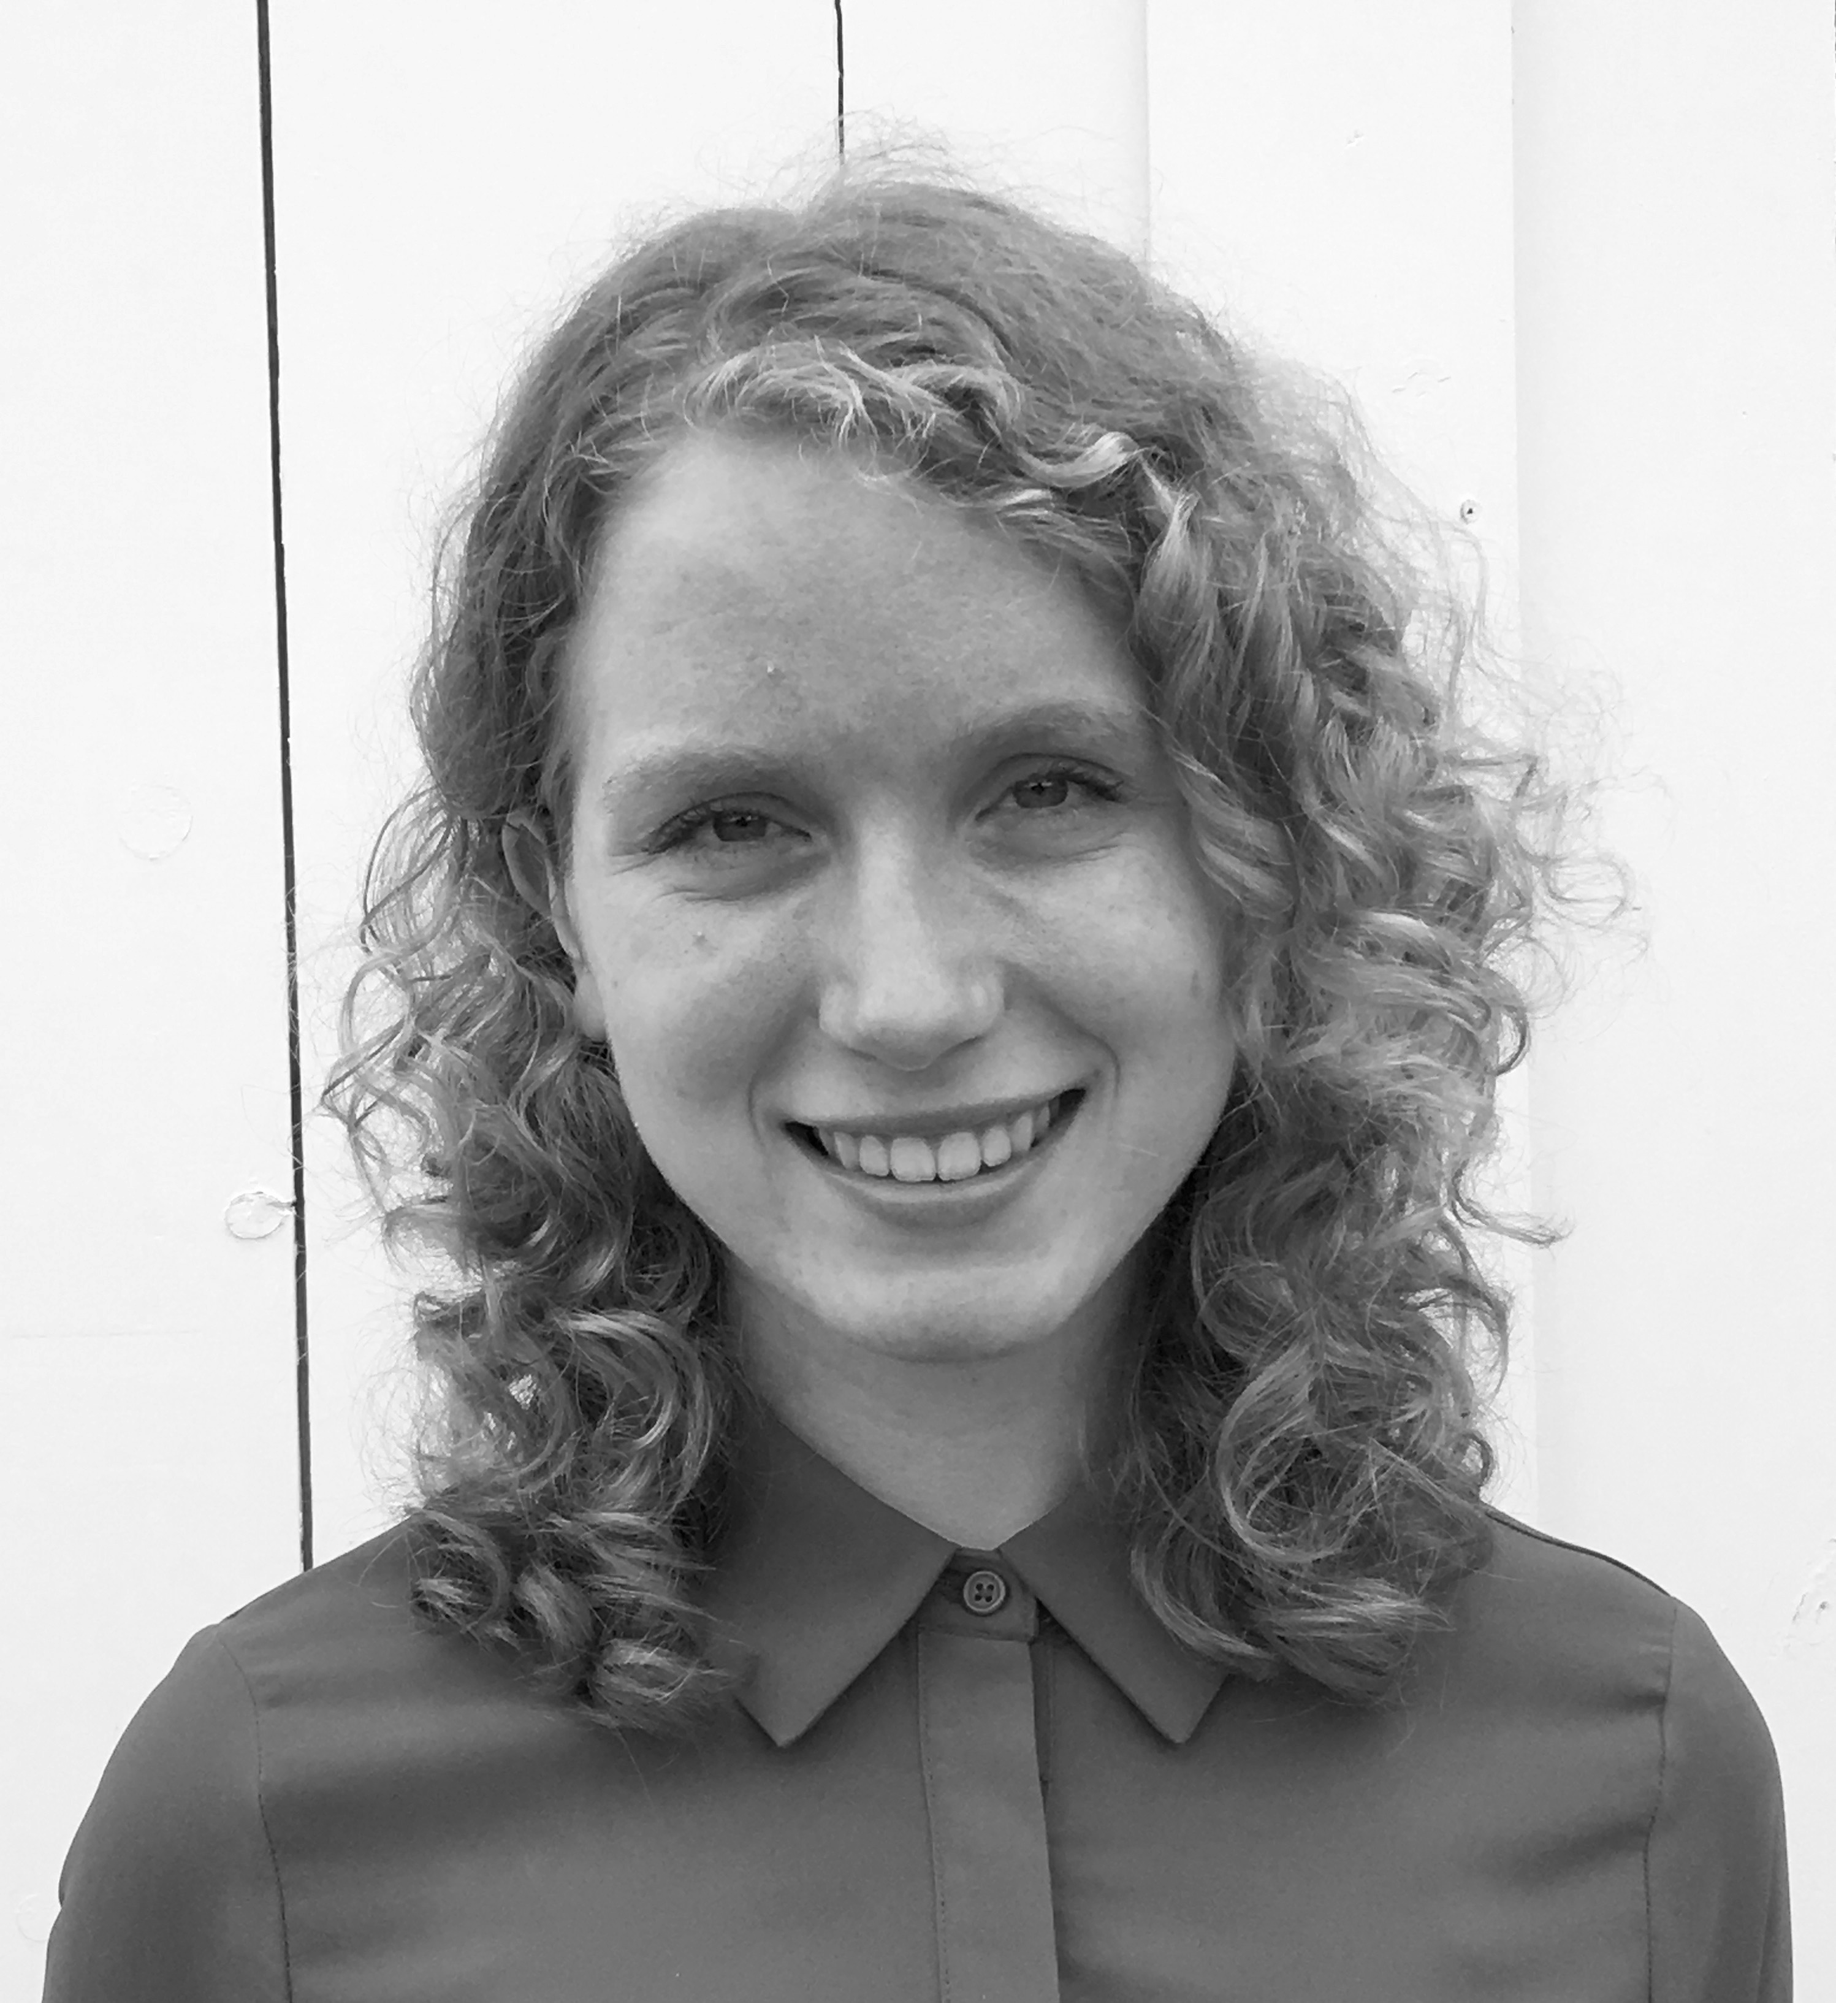
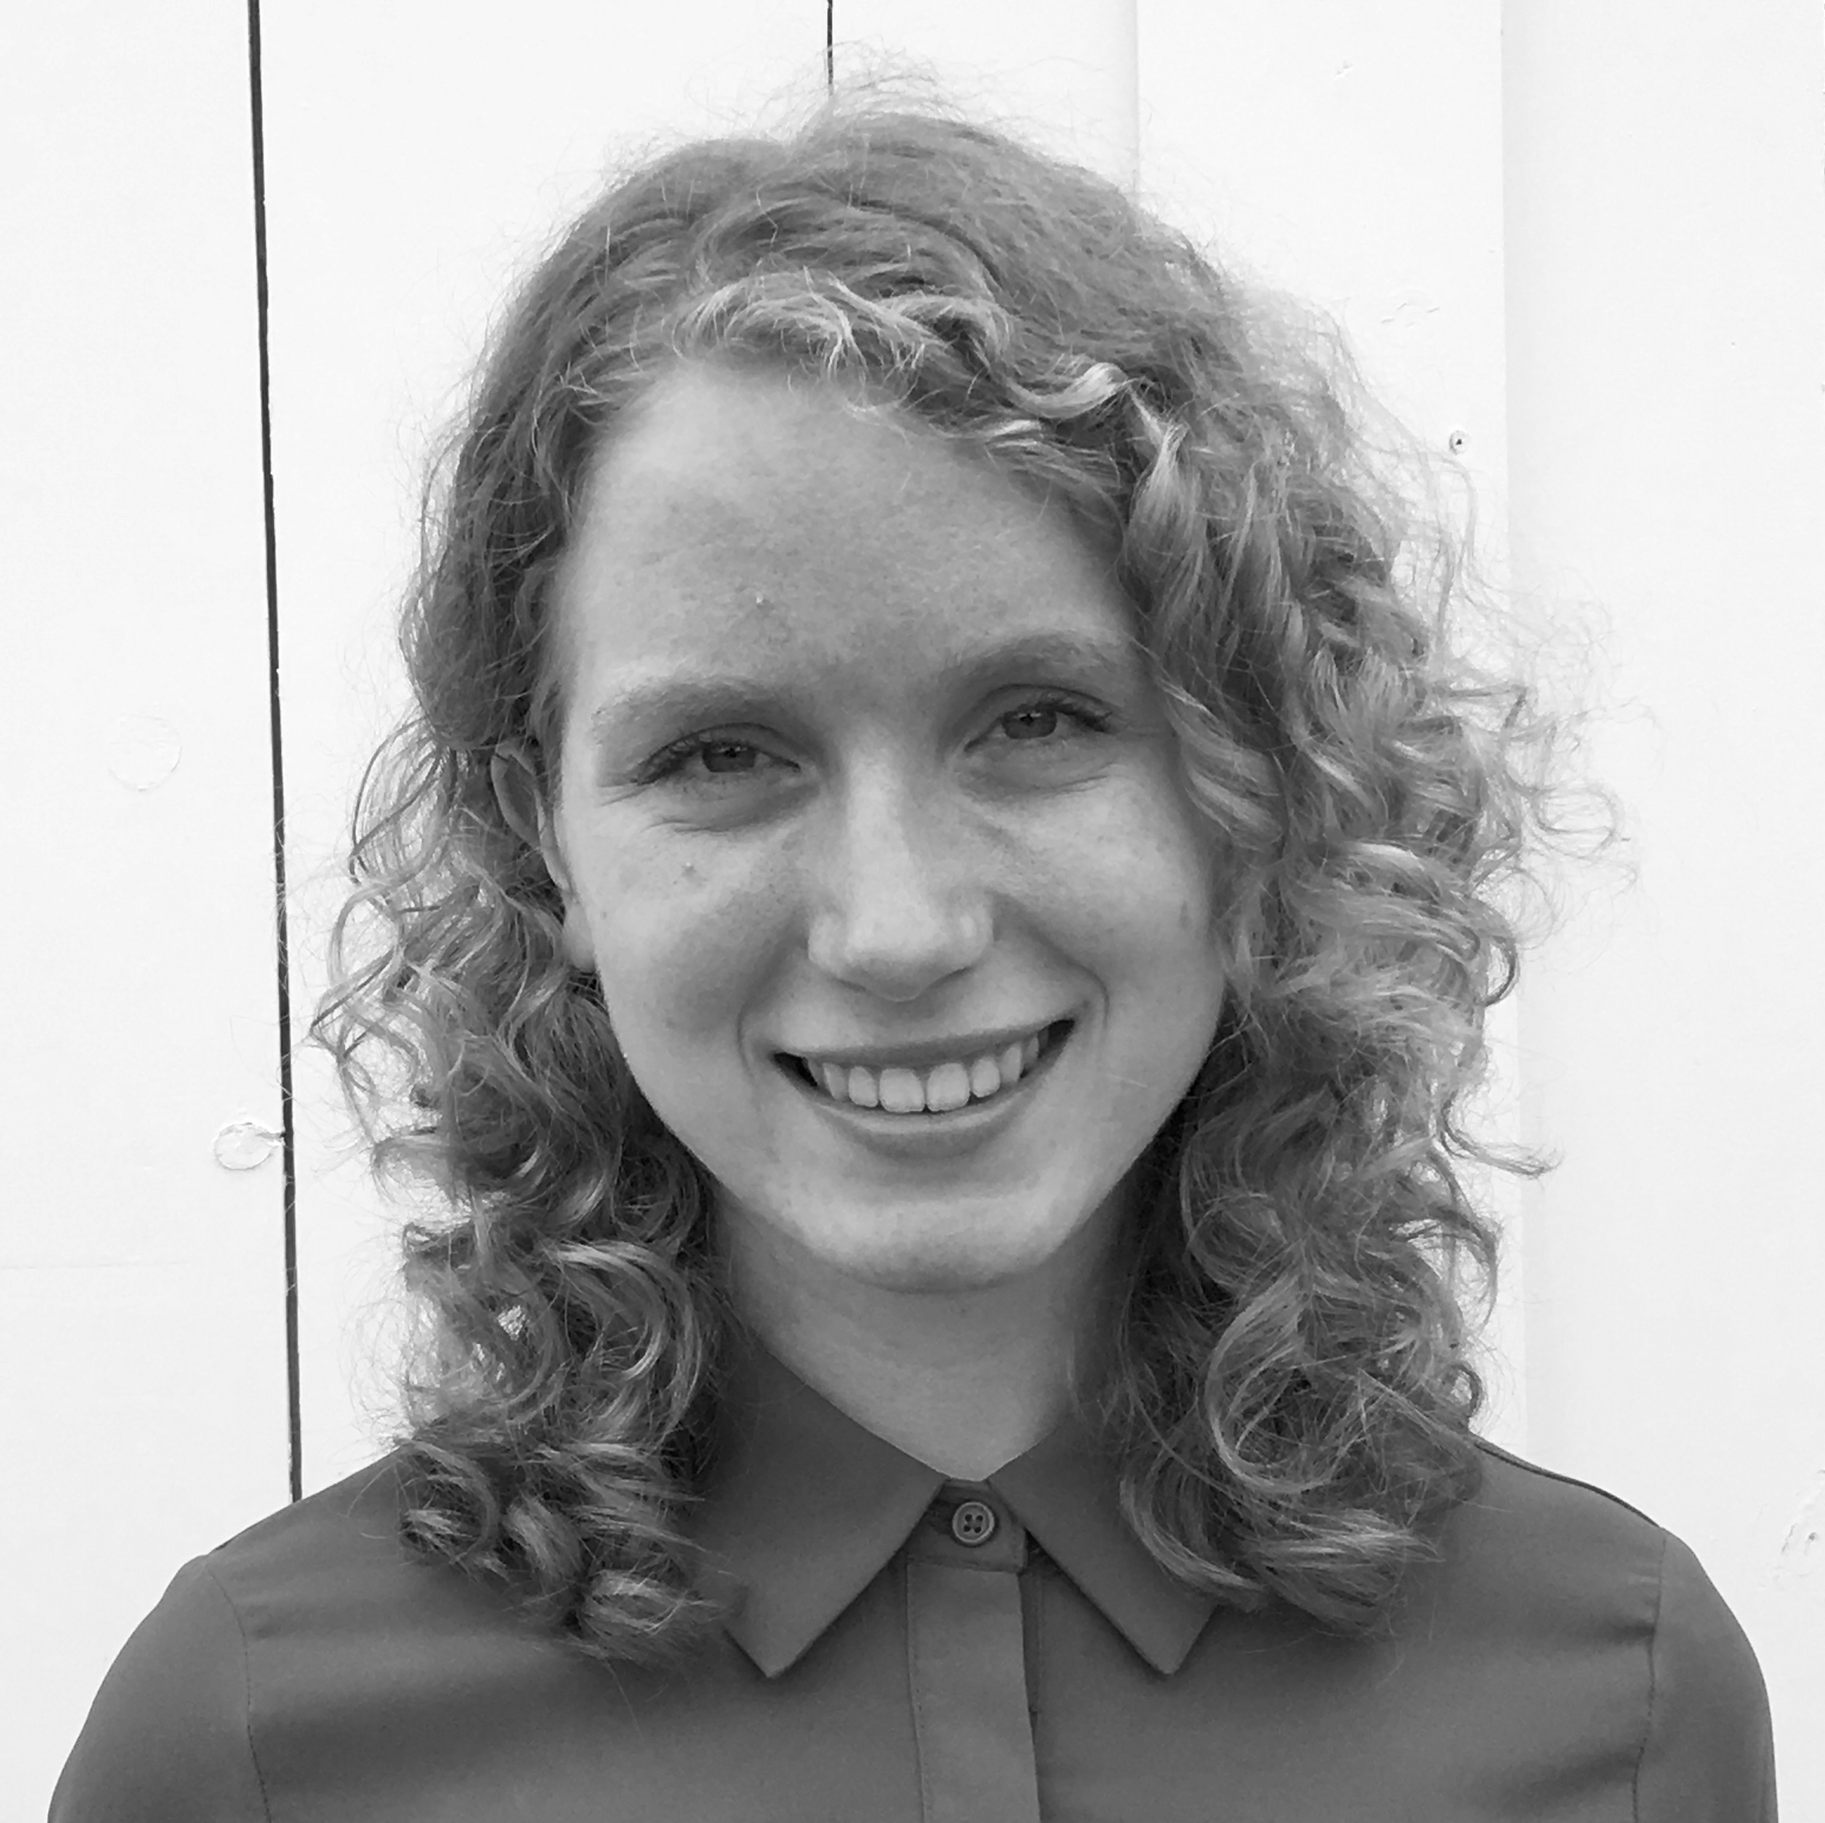
resizing photos...

Changed region(s): [[0.0, 0.0, 0.9997, 1.0], [0.9997, 0.0, 1.0, 0.0619], [0.9997, 0.0928, 1.0, 0.1238]]

diff --git a/assets/css/main.css b/assets/css/main.css
@@ -2564,6 +2564,17 @@
     height: 300px;
 }
 
+
+.imgContainer {
+  overflow: hidden;
+  width: 375px;
+  height: 375px;
+}
+.imgContainer img {
+  width: 375px;
+  height: 375px;
+}
+
 .ccontainer {
     position: relative;
     text-align: center;
